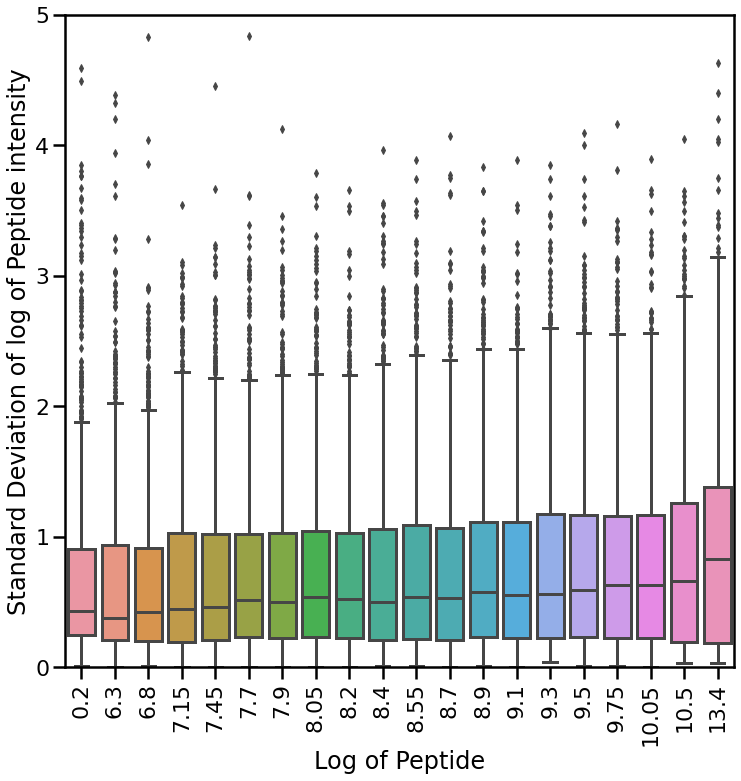
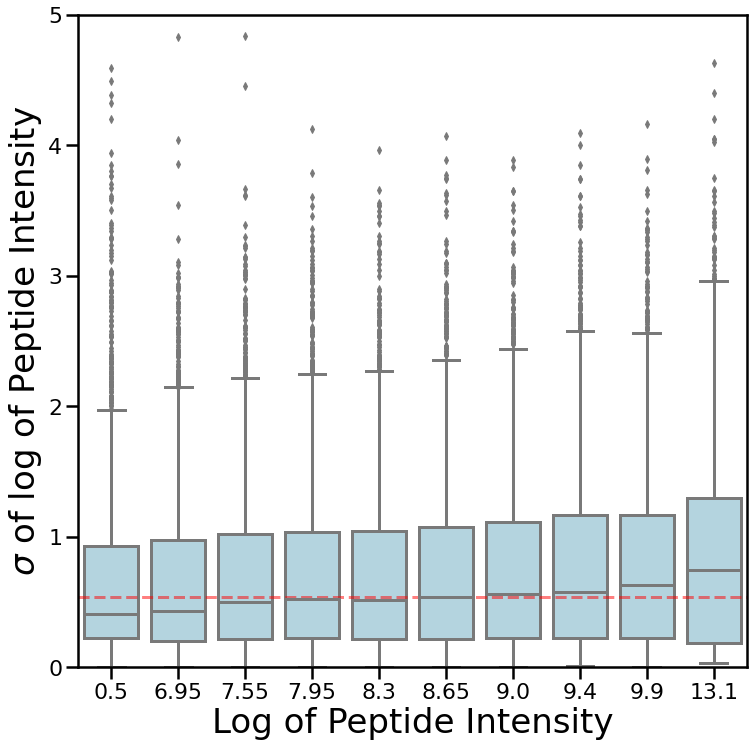
updated plot and docs

diff --git a/doc/benchmark/benchmark.tex b/doc/benchmark/benchmark.tex
@@ -300,20 +300,20 @@ We strived to validate the Triqler method for a DIA setting. We hence investigat
 %        B \includegraphics[width=0.45\linewidth]{../../result/report_plots/diann_fraction_missing_values.png} & \\%\includegraphics[width=0.3\linewidth]{} \\ 
 
 % OSW RESULTS
-        A \includegraphics[width=0.42\linewidth]{../../result/report_plots/osw_sigma_mu_boxplot_qval_filtered_peptide_filtered_qbinned.png} & &%\includegraphics[width=0.3\linewidth]{} & 
-        B \includegraphics[width=0.44\linewidth]{../../result/report_plots/osw_fraction_missing_values.png} & \\%\includegraphics[width=0.3\linewidth]{} \\
+        A \includegraphics[width=0.40\linewidth]{../../result/report_plots/osw_sigma_mu_boxplot_qval_filtered_peptide_filtered_qbinned.png} & &%\includegraphics[width=0.3\linewidth]{} & 
+        B \includegraphics[width=0.45\linewidth]{../../result/report_plots/osw_fraction_missing_values.png} & \\%\includegraphics[width=0.3\linewidth]{} \\
 
     \end{tabular}
-    \todo[inline]{Fill in the fixme below..\\
-    A+B: Remove the header of each plot (Never-ever use headers of plots.)\\
-    A+B: Move the diann plots to the supplement. And change the scale of the diann plot so that you see other things than white space.\\
-    A: It is hard to perfectly see the reality of our claim for the A plot. Could you try a box plot instead. Also plot the meadian stdv of the set as a red dotted line across the violins or boxes.
-    B: Increase the font size for B\\
-    B: Zoom in on the lower left of the plot so that one can see what is going on.\\
-    B: Spell out what the red line signifies, how you fitted it, and why you think the result indicates that DIA data works for Triqler. }
+%    \todo[inline]{Fill in the fixme below.\\
+%    A+B: Remove the header of each plot (Never-ever use headers of plots.)\\
+%    A+B: Move the diann plots to the supplement. And change the scale of the diann plot so that you see other things than white space.\\
+%    A: It is hard to perfectly see the reality of our claim for the A plot. Could you try a box plot instead. Also plot the meadian stdv of the set as a red dotted line across the violins or boxes.
+%    B: Increase the font size for B\\
+%    B: Zoom in on the lower left of the plot so that one can see what is going on.\\
+%    B: Spell out what the red line signifies, how you fitted it, and why you think the result indicates that DIA data works for Triqler. }
 
     %\caption{{\bf Triqler's assumptions of peptide abundance values are valid also for the petide intensities in DIA data.}  (A) We plotted the standard deviation as a function of the mean of every peptide intensity in the TripleTOF6600 section of the LFQ Bench set  in log-log scale. We observe a nearly uniform offset in standard deviation across the intensity scale, demonstrating that $\log(\sigma) \approx \log(\mu) + \log(k)$ and hence   $\sigma \approx \mu k$ (B) We plotted the fraction of peptides observing one missing value for each triplicate in the set. We obseve that this empirical distribution roughly follows the assumed function FIXMEe.}
-        \caption{{\bf Triqler's assumptions of peptide abundance values are valid also for the petide intensities in DIA data.}  (A) We grouped the peptide intensities to equally sized bins and plotted the gaussian kernal density estimate for each bin. The bins are approximately the same shape, demonstrating that $\log(\sigma) \approx \log(\mu) + \log(k)$ and hence   $\sigma \approx \mu k$. As a reference for both pipelines in log-log axis and linear-linear axis is reported in supplemental figure  \ref{label1} (B) We plotted the fraction of peptides observing one missing value for each triplicate in the set. We obseve that this empirical distribution roughly follows the assumed function FIXME.}
+        \caption{{\bf Triqler's assumptions of peptide abundance values are valid also for the petide intensities in DIA data.} The red dotted line marks the median of the standard deviation.  (A) We grouped the peptide intensities to equally sized bins and plotted the gaussian kernal density estimate for each bin. The bins are approximately the same shape, demonstrating that $\log(\sigma) \approx \log(\mu) + \log(k)$ and hence   $\sigma \approx \mu k$. As a reference for both pipelines in log-log axis and linear-linear axis is reported in supplemental figure  \ref{label1} (B) We plotted the fraction of peptides observing one missing value for each triplicate in the set. We obseve that this empirical distribution roughly follows the assumed function FIXME.}
       \label{fig:assumptions}
 \end{figure}
 
